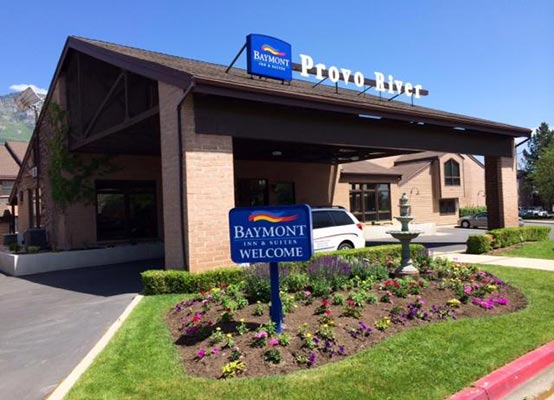
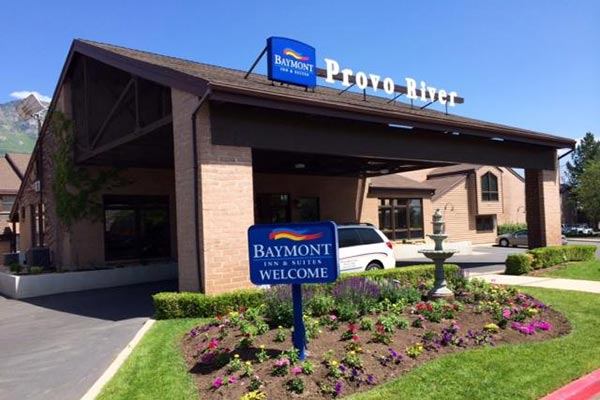
carousel images same size now and center on smaller screens

diff --git a/docs/index.html b/docs/index.html
@@ -185,7 +185,7 @@
                             <p>12605 South Minuteman Drive<br>Draper, UT 84020</p> <br> <p>Next to I-15 and 1.8 miles from the Loveland Living Planet Aquarium.</p>
                         </div>
                         <div class="col-sm-7">
-                            <img class="img-responsive" src="img/carousel/ramada-front-opt.jpg" alt="">
+                            <img class="img-responsive" src="img/carousel/ramada-front.jpg" alt="">
                             
                               <div class="holder">
                                 <div class="whatermark">SOLD</div>

diff --git a/docs/css/style.marsala.css b/docs/css/style.marsala.css
@@ -1176,6 +1176,9 @@ fieldset[disabled] .btn-template-primary.active {
   .home-carousel {
     text-align: center !important;
   }
+  .home-carousel img {
+    margin: 0 auto;
+  }
 }
 @media (min-width: 992px) {
   .home-carousel .right {

diff --git a/themes/hugo-universal-theme/static/css/style.marsala.css b/themes/hugo-universal-theme/static/css/style.marsala.css
@@ -1176,6 +1176,9 @@ fieldset[disabled] .btn-template-primary.active {
   .home-carousel {
     text-align: center !important;
   }
+  .home-carousel img {
+    margin: 0 auto;
+  }
 }
 @media (min-width: 992px) {
   .home-carousel .right {
